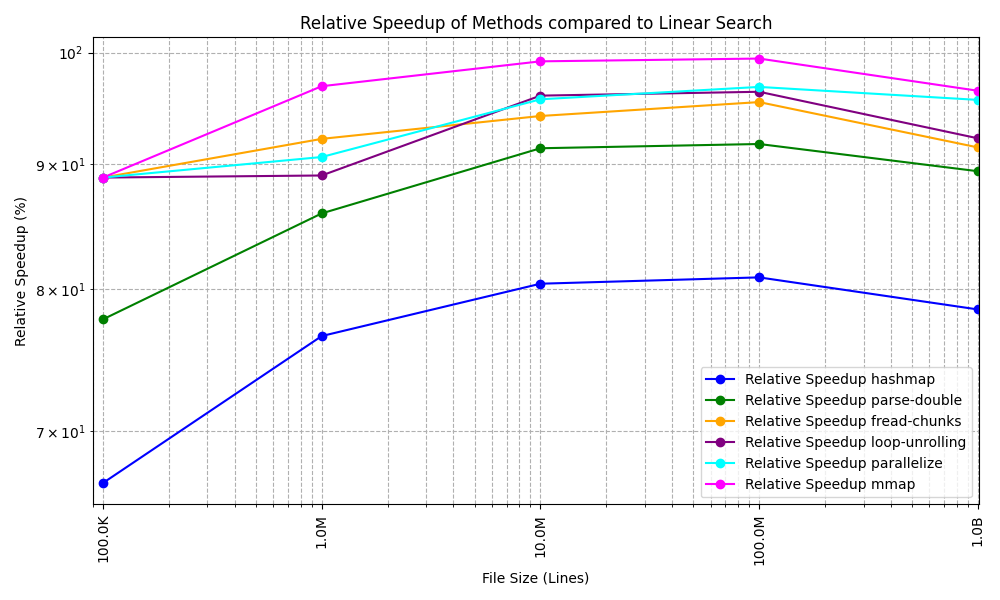
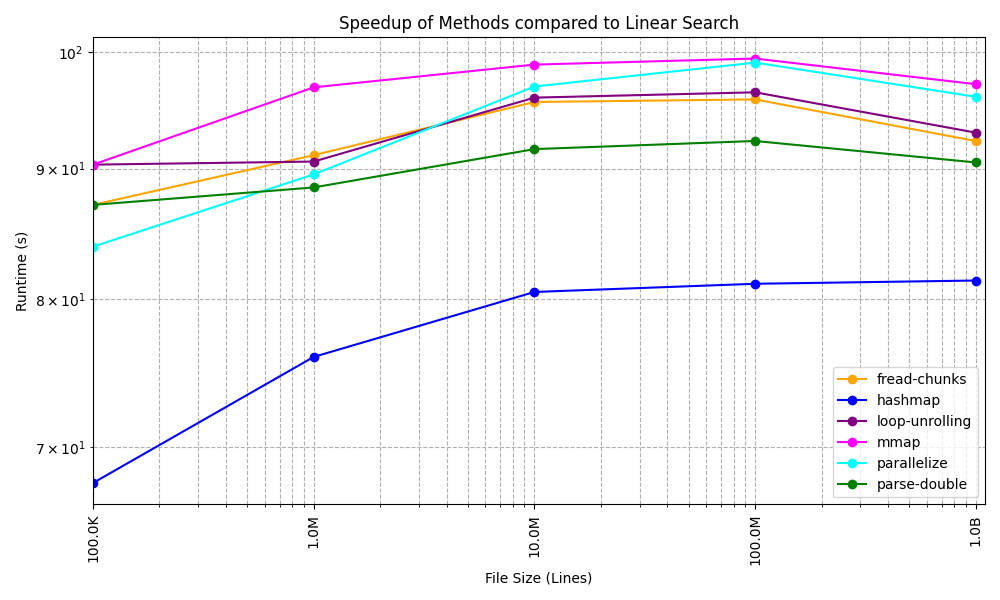
updated charts to fit new benchmarking tests

diff --git a/charts/create-chart-speedup.py b/charts/create-chart-speedup.py
@@ -11,28 +11,34 @@ def human_readable(num):
 
 
 if __name__ == '__main__':
+    df = pd.read_csv('charts/runtimes.csv', index_col='Program')
+    df['File Size (Lines)'] = df['File'].apply(lambda x: int(x.split('_')[1].split('.')[0]))
+    df['AvGRuntime'] = df[['Runtime1', 'Runtime2', 'Runtime3']].mean(axis=1)
+    pivot_df = df.pivot_table(index='File Size (Lines)', columns='Program', values='AvGRuntime', aggfunc='sum')
 
-    # Continue with your plotting code...
-    # Load data from CSV into a DataFrame
-    df = pd.read_csv('charts/performance.csv')
+    pivot_df = pivot_df.iloc[2:]
+    # Reset the index to make 'File Size (Lines)' a regular column
+    pivot_df.reset_index(inplace=True)
+    linear_search_runtime = pivot_df["linear-search"]
+    filesizes = pivot_df["File Size (Lines)"]
+    speedup_df = pivot_df.drop(columns=["File Size (Lines)", "linear-search"]).apply(
+        lambda col: (linear_search_runtime - col) / linear_search_runtime * 100)
 
-    df = df.drop(
-        columns=['linear-search', 'hashmap', 'parse-double', 'fread-chunks', 'loop-unrolling', 'parallelize', 'mmap'])
-    # drop first 2 rows
-    df = df.drop([0, 1])
+    # Move the addition of the 'Lines' column after dropping unnecessary columns
+    speedup_df['Lines'] = filesizes
 
-    colour_dict = {'linear-search': 'red', 'Relative Speedup hashmap': 'blue', 'Relative Speedup parse-double': 'green',
-                   'Relative Speedup fread-chunks': 'orange', 'Relative Speedup loop-unrolling': 'purple',
-                   'Relative Speedup parallelize': 'cyan', 'Relative Speedup mmap': 'magenta'}
-    # Plot
+    # Create colour dict for each method
+    colour_dict = {'linear-search': 'red', 'hashmap': 'blue', 'parse-double': 'green', 'fread-chunks': 'orange',
+                   'loop-unrolling': 'purple', 'parallelize': 'cyan', 'mmap': 'magenta'}
+
     plt.figure(figsize=(10, 6))
+    df = speedup_df
+    for column in df.columns[:-1]:
+        plt.plot(df["Lines"], df[column], marker='o', label=column, color=colour_dict[column])
 
-    for column in df.columns[1:]:
-        plt.plot(df["File Size (Lines)"], df[column], marker='o', label=column, color=colour_dict[column])
-
-    plt.title('Relative Speedup of Methods compared to Linear Search')
+    plt.title('Speedup of Methods compared to Linear Search')
     plt.xlabel('File Size (Lines)')
-    plt.ylabel('Relative Speedup (%)')
+    plt.ylabel('Runtime (s)')
     plt.xscale('log')
     plt.yscale('log')
     plt.grid(True, which="both", ls="--")
@@ -40,11 +46,9 @@ if __name__ == '__main__':
     # Get x-ticks and convert them to human readable format
     xticks = plt.xticks()[0]
     plt.xticks(xticks, [human_readable(xtick) for xtick in xticks], rotation='vertical')
-    # remove the first 2 and last 2 x-ticks and start at the new first x-tick
-    plt.xticks(xticks[2:-2])
-    # start from the 100000 x-tick
-    padding_left = 10000
-    padding_right = 10000000
+
+    padding_left = 10
+    padding_right = 100000000
     plt.xlim(100000 - padding_left, 1000000000 + padding_right)
 
     plt.legend()

diff --git a/charts/create-charts-absolute.py b/charts/create-charts-absolute.py
@@ -12,12 +12,13 @@ def human_readable(num):
 
 if __name__ == '__main__':
 
-    df = pd.read_csv('charts/performance.csv')
+    df = pd.read_csv('charts/runtimes.csv',index_col='Program')
+    df['File Size (Lines)'] = df['File'].apply(lambda x: int(x.split('_')[1].split('.')[0]))
+    df['AvGRuntime'] = df[['Runtime1', 'Runtime2', 'Runtime3']].mean(axis=1)
+    pivot_df = df.pivot_table(index='File Size (Lines)', columns='Program', values='AvGRuntime', aggfunc='sum')
 
-    df = df.drop(columns=['Relative Speedup hashmap', 'Relative Speedup parse-double', 'Relative Speedup fread-chunks',
-                          'Relative Speedup loop-unrolling', 'Relative Speedup parallelize', 'Relative Speedup mmap'])
-    # drop first 2 rows
-    df = df.drop([0, 1])
+    # Reset the index to make 'File Size (Lines)' a regular column
+    pivot_df.reset_index(inplace=True)
 
     # Plot
     plt.figure(figsize=(10, 6))
@@ -26,8 +27,8 @@ if __name__ == '__main__':
     colour_dict = {'linear-search': 'red', 'hashmap': 'blue', 'parse-double': 'green', 'fread-chunks': 'orange',
                    'loop-unrolling': 'purple', 'parallelize': 'cyan', 'mmap': 'magenta'}
 
-    for column in df.columns[1:]:
-        plt.plot(df["File Size (Lines)"], df[column], marker='o', label=column, color=colour_dict[column])
+    for column in pivot_df.columns[1:]:
+        plt.plot(pivot_df["File Size (Lines)"], pivot_df[column], marker='o', label=column, color=colour_dict[column])
 
     plt.title('Absolute Runtimes of Methods')
     plt.xlabel('File Size (Lines)')

diff --git a/mmap.c b/mmap.c
@@ -194,7 +194,7 @@ void result_to_str(char *dest, const struct Result *result) {
 }
 
 int main(int argc, char **argv) {
-    char *file = "measurements.txt";
+    char *file = "../data/measurements.txt";
     if (argc > 1) {
         file = argv[1];
     }
@@ -213,6 +213,11 @@ int main(int argc, char **argv) {
 
     // mmap entire file into memory
     size_t sz = (size_t)sb.st_size;
+
+    if(sz == 0){
+        perror("filesize is 0, probably empty file");
+        exit(EXIT_FAILURE);
+    }
     const char *data = mmap(NULL, sz, PROT_READ, MAP_SHARED, fd, 0);
     if (data == MAP_FAILED) {
         perror("error mmapping file");

diff --git a/create-sample.c b/create-sample.c
@@ -449,8 +449,9 @@ int main(int argc, char **argv) {
     }
 
     long n = strtol(argv[1], NULL, 10);
+    printf("Creating %ld measurements\n", n);
     char filename[50];
-    sprintf(filename, "data/measurement_%ld_lines.txt", n);
+    sprintf(filename, "../data/measurement_%ld_lines.txt", n);
 
     FILE *fh = fopen(filename, "w");
     if (!fh) {

diff --git a/linear-search.c b/linear-search.c
@@ -82,7 +82,7 @@ int main(int argc, const char **argv) {
         }
     }
 
-    qsort(results, (size_t) resultCount, sizeof(*results), compareGroup);
+    qsort(results, (size_t) resultCount, sizeof(*results), compareStr);
 
     printResults(results, &resultCount);
 
